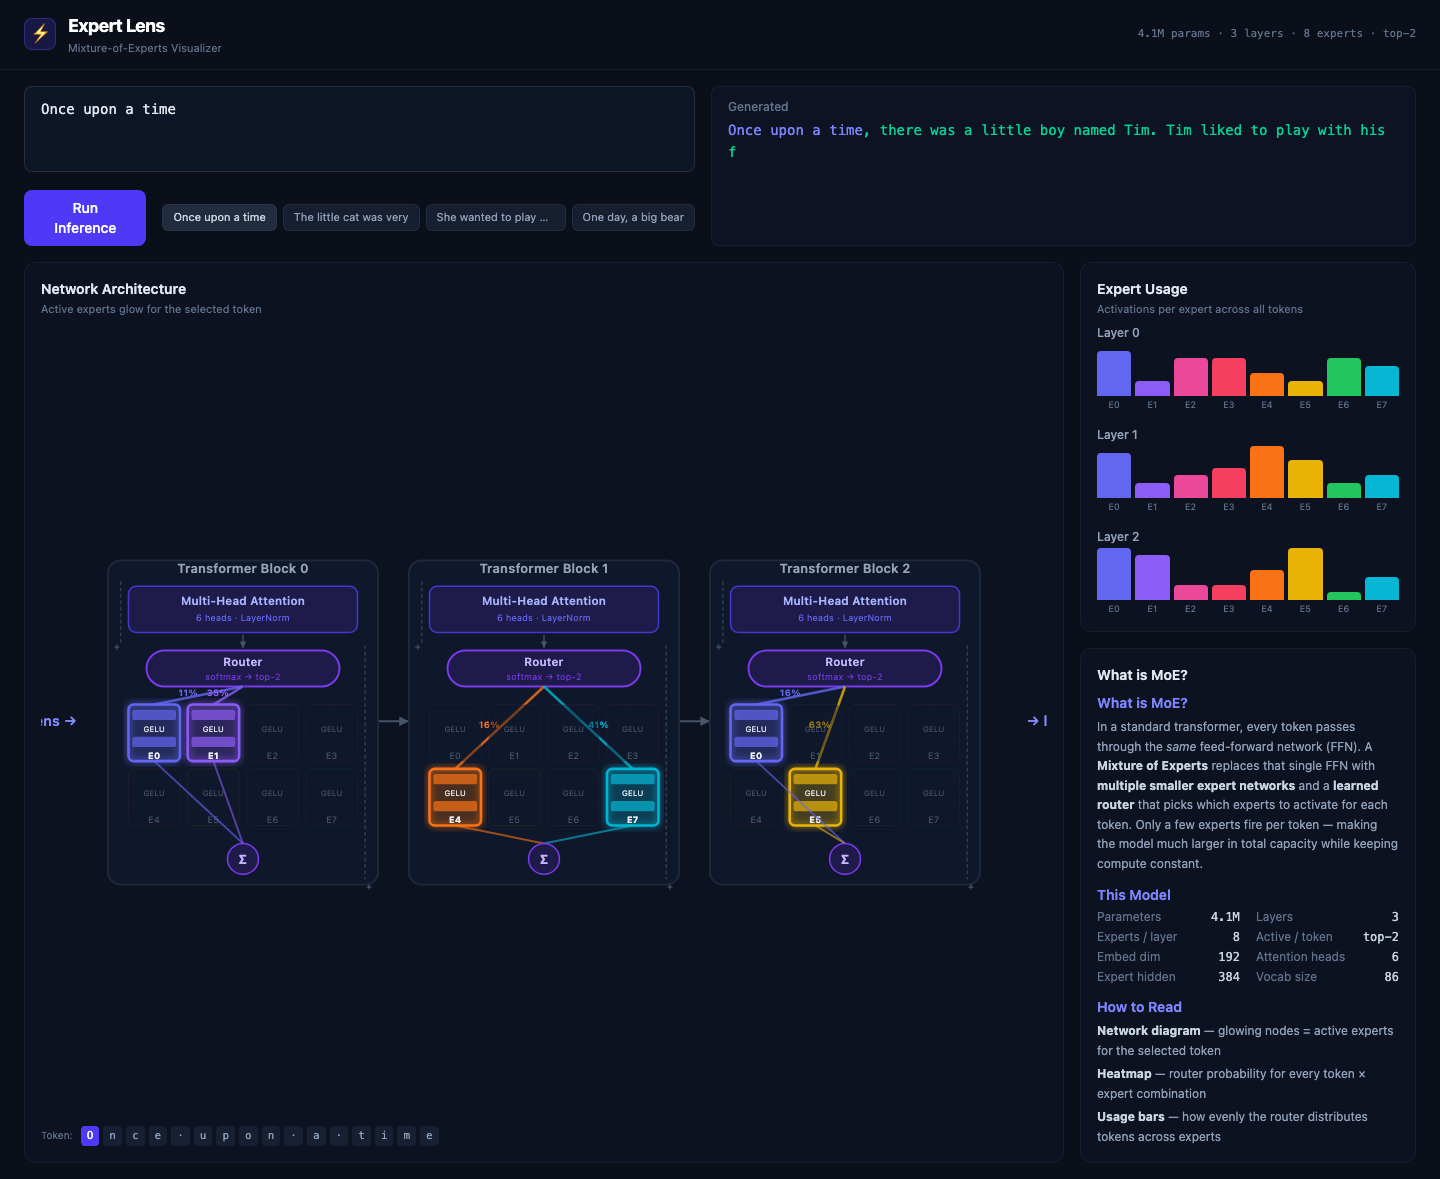
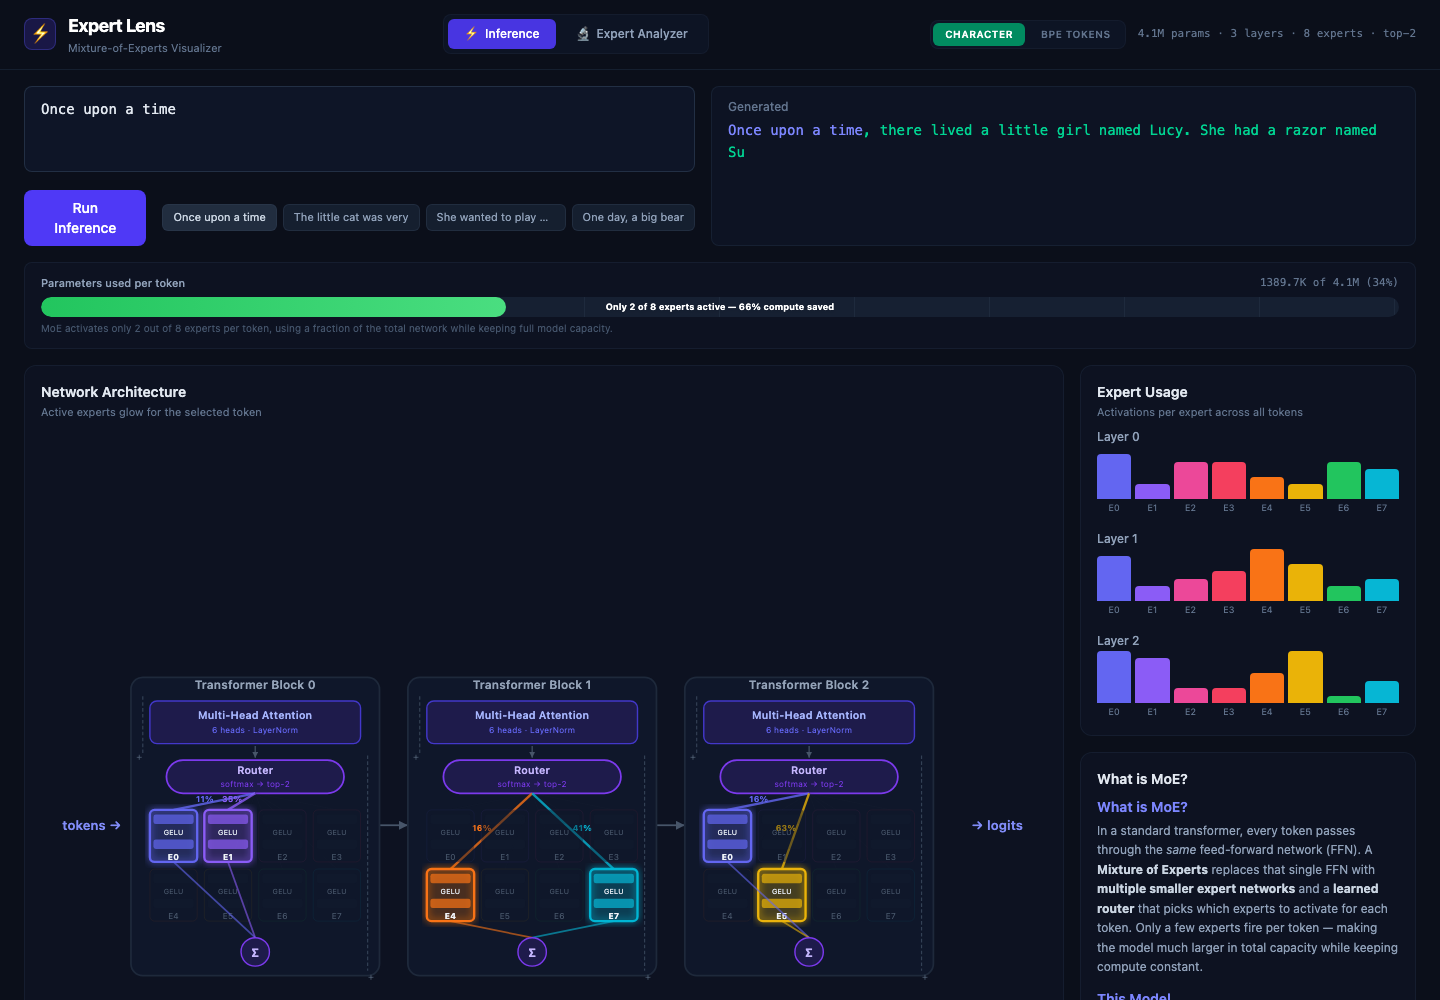
docs: Update screenshots and README with Expert Analyzer
- Update scripts/screenshot.py to capture both inference and analysis views
- Add new screenshots: demo.png (inference) and analysis.png (expert analyzer)
- Update README.md to include the Expert Analyzer screenshot

diff --git a/scripts/screenshot.py b/scripts/screenshot.py
@@ -17,23 +17,56 @@ async def main():
 
     out_dir = os.path.join(os.path.dirname(__file__), "..", "screenshots")
     os.makedirs(out_dir, exist_ok=True)
-    out_path = os.path.join(out_dir, "demo.png")
+    
+    demo_path = os.path.join(out_dir, "demo.png")
+    analysis_path = os.path.join(out_dir, "analysis.png")
 
     async with async_playwright() as p:
         browser = await p.chromium.launch()
-        page = await browser.new_page(viewport={"width": 1440, "height": 900})
+        page = await browser.new_page(viewport={"width": 1440, "height": 1000})
 
+        print("Navigating to app...")
         await page.goto("http://localhost:5173", wait_until="networkidle")
-        await asyncio.sleep(1)
+        await asyncio.sleep(2)
 
+        # --- 1. Inference View ---
+        print("Running inference demo...")
         # Click an example prompt to trigger inference
         example_btn = page.locator("button", has_text="Once upon a time")
         if await example_btn.count() > 0:
-            await example_btn.click()
+            await example_btn.first.click()
+            # Wait for inference to complete (look for tokens appearing)
             await asyncio.sleep(3)
+        
+        await page.screenshot(path=demo_path, full_page=False)
+        print(f"Screenshot saved to {demo_path}")
 
-        await page.screenshot(path=out_path, full_page=True)
-        print(f"Screenshot saved to {out_path}")
+        # --- 2. Analyzer View ---
+        print("Running expert analysis...")
+        # Switch to Analyzer tab
+        await page.click("text=Expert Analyzer")
+        await asyncio.sleep(1)
+
+        # Click Run Analysis
+        run_btn = page.locator("button", has_text="Run Analysis")
+        await run_btn.click()
+
+        # Wait for analysis steps (ingest -> map -> profile)
+        # We added 2.5s delays for steps, plus LLM time. Give it plenty of time.
+        # Wait until "Re-analyze" appears
+        try:
+            await page.wait_for_selector("text=Re-analyze", timeout=60000)
+        except Exception as e:
+            print(f"Timeout waiting for analysis to complete: {e}")
+            # Take a screenshot anyway to debug
+            await page.screenshot(path=os.path.join(out_dir, "analysis_error.png"), full_page=False)
+            raise e
+            
+        await asyncio.sleep(1) # Let animations settle
+
+        await page.screenshot(path=analysis_path, full_page=False)
+        print(f"Screenshot saved to {analysis_path}")
+
         await browser.close()
 
 

diff --git a/README.md b/README.md
@@ -121,6 +121,8 @@ If these are not provided, the "Expert Analyzer" will use programmatic fallback 
 - **Generated Text** — input shown in purple, generated continuation in green
 - **Expert Analyzer** — profile all experts across all layers; LLM-generated labels describe each expert's specialization
 
+![Expert Analyzer](screenshots/analysis.png)
+
 ## Tech Stack
 
 | Layer | Technology |
